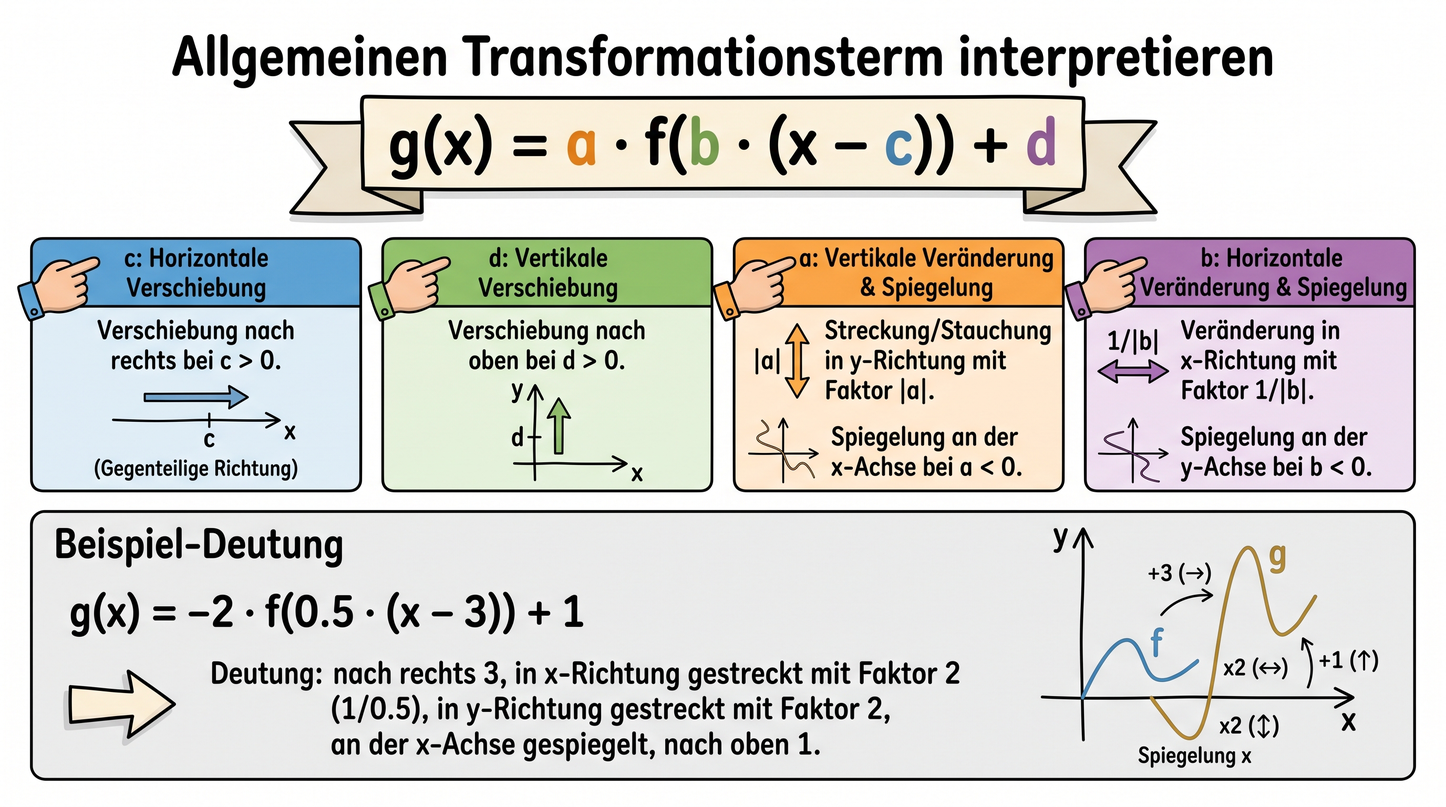
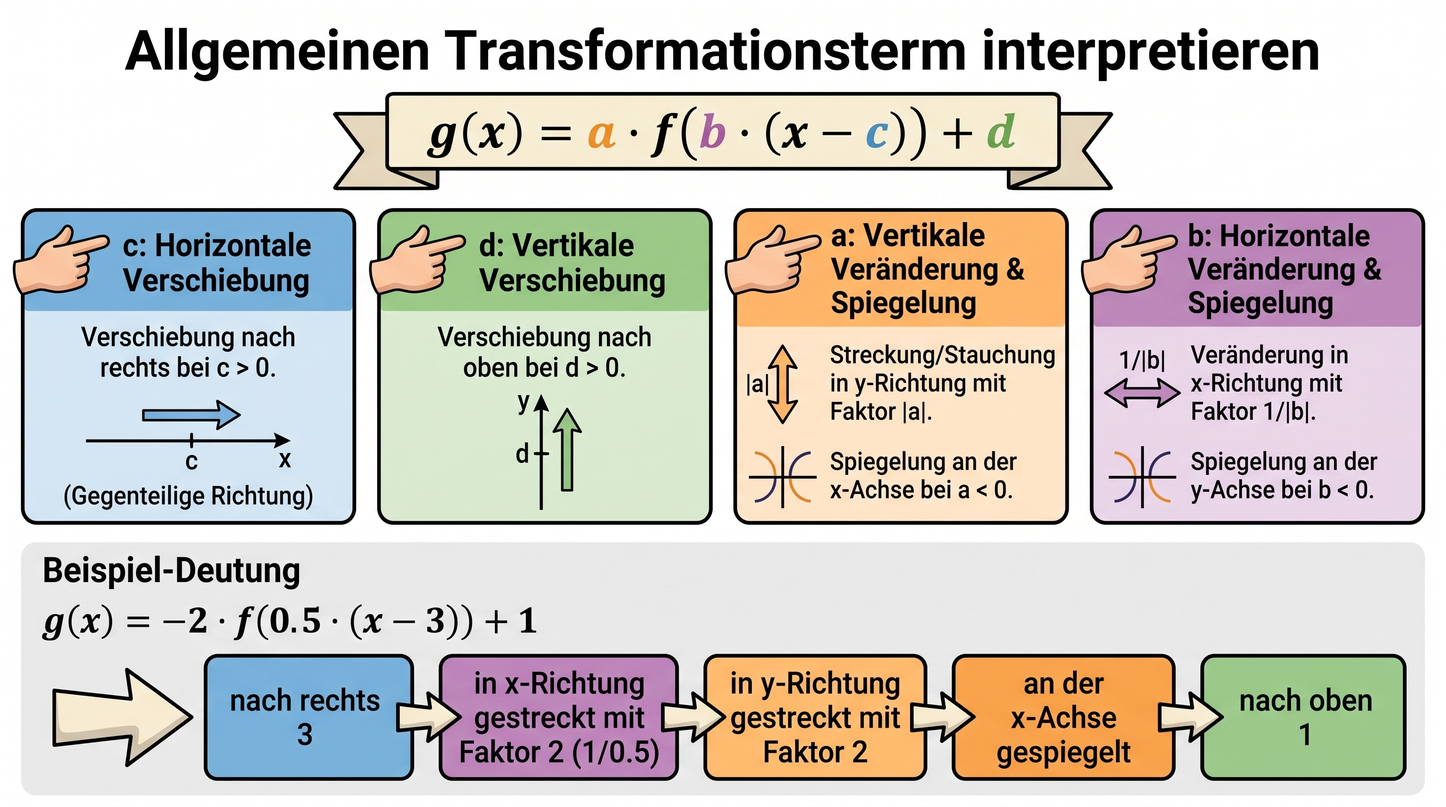
curriculum update (images)

diff --git a/curricula/DE/Gymnasium/visualizations/mathematik/a12bef54-7595-5f48-a7a8-9cfe1d8e9729/prompt.de.md b/curricula/DE/Gymnasium/visualizations/mathematik/a12bef54-7595-5f48-a7a8-9cfe1d8e9729/prompt.de.md
@@ -9,7 +9,7 @@
 ## Generator
 
 - Provider: Google Gemini / Nano Banana Pro (gemini-3-pro-image)
-- Status: pilot
+- Status: approved
 - Quellbild: `a12bef54-7595-5f48-a7a8-9cfe1d8e9729.jpg`
 - Public Asset: `/assets/goal-visualizations/mathematik/a12bef54-7595-5f48-a7a8-9cfe1d8e9729/a12bef54-7595-5f48-a7a8-9cfe1d8e9729.jpg`
 
@@ -19,10 +19,10 @@
 Bitte visualisiere das folgende Lernziel im einfachen Cartoon-Stil.
 
 Rahmen:
-- Zielgruppe: Gymnasium Mathematik.
+- Stil und Anspruch: klar, anschaulich und fachlich präzise; keine Zielgruppen-, Fach- oder Publikumshinweise als Bildtext.
 - Erzeuge eine klare, gut lesbare Infografik im Querformat.
 - Visualisiere genau dieses eine Lernziel; keine Zusatzthemen und keine Aufgabenlösung.
-- Nutze plausible mathematische Beispiele nur, wenn sie das Lernziel unmittelbar erklären.
+- Nutze plausible fachliche Beispiele nur, wenn sie das Lernziel unmittelbar erklären.
 - Keine Drittanbieterlogos, keine Arbeitsblatt-Kopie, keine geschützten Figuren.
 - Verwende wenig Text: kurze deutsche Labels statt langer Sätze.
 - Beschriftungen und mathematische Schreibweisen müssen fachlich korrekt und auch in kleiner Darstellung lesbar sein.
@@ -32,29 +32,29 @@ Beschreibung: Die lernende Person kann den Term $g(x)=a\cdot f(b\cdot(x-c))+d$ a
 
 Zusatzanweisung:
 Pflichtinhalt:
-- Thema: Den allgemeinen Transformationsterm deuten.
-- Zeige den Term gross:
-  g(x)=a*f(b*(x-c))+d.
-- Erklaere die vier Parameter in einer klaren Parameterkarte:
-  c: Verschiebung nach rechts bei c>0.
-  d: Verschiebung nach oben bei d>0.
-  a: Streckung/Stauchung in y-Richtung mit Faktor |a|; Spiegelung an der x-Achse bei a<0.
-  b: Veraenderung in x-Richtung mit Faktor 1/|b|; Spiegelung an der y-Achse bei b<0.
-- Verwende ein konkretes Beispiel nur zur Interpretation:
-  g(x)=-2*f(0.5*(x-3))+1.
-  Deutung:
-  nach rechts 3,
-  in x-Richtung gestreckt mit Faktor 2,
-  in y-Richtung gestreckt mit Faktor 2,
-  an der x-Achse gespiegelt,
-  nach oben 1.
-- Nutze eine generische Ausgangskurve f und eine transformierte Kurve ohne konkrete f-Formel.
+- Erzeuge eine klare, anschauliche Infografik zum allgemeinen Transformationsterm.
+- Zeige oben gut lesbar die Formel: g(x) = a · f(b · (x - c)) + d.
+- Erkläre die vier Parameter in vier farbigen Karten:
+  - c: horizontale Verschiebung; bei c > 0 nach rechts.
+  - d: vertikale Verschiebung; bei d > 0 nach oben.
+  - a: Veränderung in y-Richtung mit Faktor |a|; Spiegelung an der x-Achse bei a < 0.
+  - b: Veränderung in x-Richtung mit Faktor 1/|b|; Spiegelung an der y-Achse bei b < 0.
+- Die Karte zu b muss klar sagen: "Faktor 1/|b| in x-Richtung".
+- Unten darf eine Beispiel-Deutung stehen:
+  g(x) = -2 · f(0,5 · (x - 3)) + 1
+  Deutung: nach rechts 3, in x-Richtung gestreckt mit Faktor 2, in y-Richtung gestreckt mit Faktor 2, an der x-Achse gespiegelt, nach oben 1.
+- Stelle die Beispiel-Deutung als Kette farbiger Transformations-Bausteine oder Checkliste dar, nicht als gezeichneten Funktionsgraphen.
+- Wenn du Pfeile verwendest, dann nur als Prozesspfeile zwischen den Bausteinen der Deutung, nicht als Pfeile an einem Graphen.
+- Verwende korrekte deutsche Umlaute: "Allgemeinen", "Verschiebung", "Veränderung", "Streckung", "Stauchung", "Spiegelung", "x-Achse", "y-Achse".
 
 Vermeiden:
-- Nicht b mit dem horizontalen Faktor selbst verwechseln; der horizontale Faktor ist 1/|b|.
-- Nicht c=3 als Verschiebung nach links interpretieren.
-- Nicht bei a<0 eine y-Achsen-Spiegelung behaupten; a<0 spiegelt an der x-Achse.
-- Keine technischen IDs, keine Produktnamen, keine Wasserzeichen.
+- Keine konkrete Beispielgrafik mit Koordinatensystem, Kurven oder gezeichnetem Graphen.
+- Keine blaue f-Kurve und keine gelbe oder orange g-Kurve im Beispielbereich.
+- Kein Graph, der eine konkrete Funktionsform von f suggeriert.
+- Keine Beschriftung wie "+3" oder "x2" an einem gezeichneten Kurvenbild.
+- Keine falsch herum gedeutete horizontale Verschiebung.
+- Keine falsche Aussage "Faktor |b|" in x-Richtung; korrekt ist "Faktor 1/|b|".
+- Keine technischen IDs, Dateinamen, Plattformnamen, internen Pfade oder internen Zielgruppenlabels im Bild.
 ```
 
 ## Review-Notiz

diff --git a/curricula/DE/Gymnasium/quality/goal-visualization-review/mathematik-qa-correction-a12bef54-2026-07-06.md b/curricula/DE/Gymnasium/quality/goal-visualization-review/mathematik-qa-correction-a12bef54-2026-07-06.md
@@ -1,0 +1,42 @@
+# Goal Visualization Review - Mathematik QA Correction a12bef54
+
+Review date: 2026-07-06
+
+Scope: single corrected mathematics goal visualization.
+
+Status: `completed`
+
+Batch file: `tmp/goal-visualization-correction-a12bef54.txt`
+
+Prompt append: `tmp/goal-visualization-prompt-appends/mathematik-corrections/a12bef54-7595-5f48-a7a8-9cfe1d8e9729.md`
+
+## Reviewed Asset
+
+| Goal ID | Title | Decision | Review notes |
+| --- | --- | --- | --- |
+| `a12bef54-7595-5f48-a7a8-9cfe1d8e9729` | Allgemeinen Transformationsterm interpretieren | `accepted_after_user_issue_correction` | The accepted image keeps the correct general term `g(x)=a·f(b·(x-c))+d` and removes the previously misleading graph-based example. It explains `c` as horizontal shift, `d` as vertical shift, `a` as vertical factor with reflection at the x-axis for `a<0`, and `b` as horizontal factor `1/|b|` with reflection at the y-axis for `b<0`. The example `g(x)=-2·f(0.5·(x-3))+1` is decomposed correctly as right `3`, horizontal stretch factor `2`, vertical stretch factor `2`, reflection at the x-axis, and up `1`. Visible German umlauts are correct. |
+
+## Import
+
+- Accepted candidate: `tmp/goal-visualizations/a12bef54-7595-5f48-a7a8-9cfe1d8e9729/generated/a12bef54-7595-5f48-a7a8-9cfe1d8e9729.generated.2026-07-06T15-42-33-444Z.jpg`
+- Public asset: `app/public/assets/goal-visualizations/mathematik/a12bef54-7595-5f48-a7a8-9cfe1d8e9729/a12bef54-7595-5f48-a7a8-9cfe1d8e9729.jpg`
+- Canonical asset: `curricula/DE/Gymnasium/visualizations/mathematik/a12bef54-7595-5f48-a7a8-9cfe1d8e9729/a12bef54-7595-5f48-a7a8-9cfe1d8e9729.jpg`
+- Asset hash: `sha256:84a2ad7298ec154d59abc6f5761800f036f67ab9e8faedc8c93db57d3d50bea7`
+
+## Provider Request Safety
+
+- Final provider request was checked for the canonical goal ID: not present.
+- Final provider request was checked for `SkillPilot`: not present.
+- Final provider request was checked for repo paths: not present.
+- Final provider request was checked for school-form labels such as `Gymnasium`: not present.
+
+## Review Decision
+
+Accepted.
+
+- The misleading coordinate graph/example section was removed rather than repaired with a potentially ambiguous sketch.
+- The new example is a transformation sequence without a plotted graph, so no incorrect graphical mapping remains.
+- The horizontal transformation is stated with the correct reciprocal factor `1/|b|`.
+- The concrete example with `b=0.5` correctly yields horizontal stretch factor `2`.
+- The reflection condition for negative `a` is correctly tied to the x-axis; the reflection condition for negative `b` is correctly tied to the y-axis.
+- The accepted image was inspected with `view_image` before import.

diff --git a/curricula/DE/Gymnasium/quality/goal-visualization-review/mathematik-rollout-status.md b/curricula/DE/Gymnasium/quality/goal-visualization-review/mathematik-rollout-status.md
@@ -8,7 +8,7 @@
 > Source of truth: `curricula/DE/Gymnasium/canonical/DE_DEU_S_GYM_CANONICAL_MATHEMATIK.de.json`
 > Source of truth: `curricula/DE/Gymnasium/quality/goal-visualization-review`
 
-Generated: 2026-07-06T15:28:27.826Z
+Generated: 2026-07-06T15:47:52.509Z
 
 Scope: canonical `DE Gymnasium Mathematik`, atomic goal visualizations.
 
@@ -33,8 +33,8 @@ Scope: canonical `DE Gymnasium Mathematik`, atomic goal visualizations.
 
 | Status | Count |
 | --- | --- |
-| `approved` | 14 |
-| `pilot` | 740 |
+| `approved` | 15 |
+| `pilot` | 739 |
 
 ## Ledger Decisions
 
